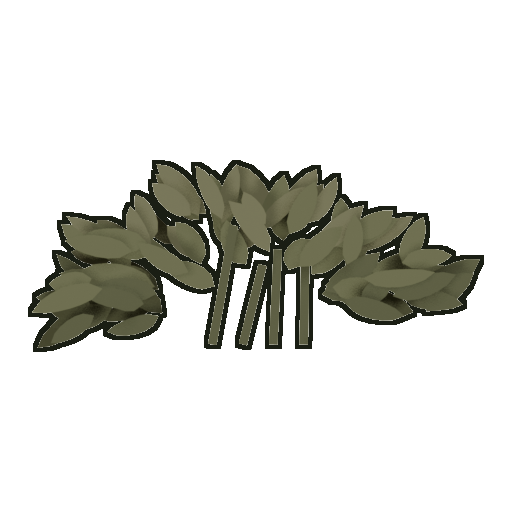
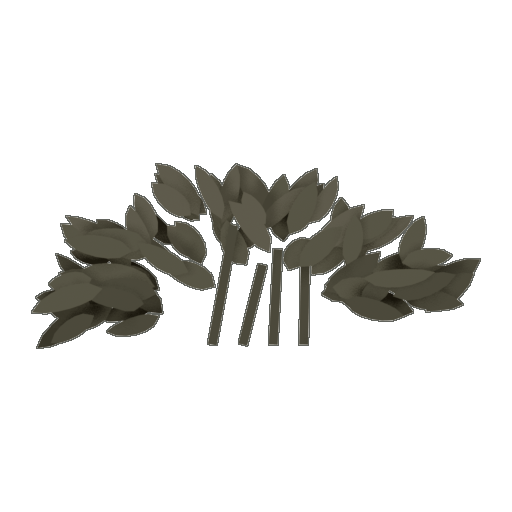
Take the ink off every prop, and plan the visual overhaul
The single biggest thing making this look cheap: every prop was stroked with
FOUR pixels of near-black at full alpha, while the sprite pipeline had already
moved to a 1px soft edge months ago. Two art languages in one frame — lit,
rim-separated soldiers standing in front of scenery with a cartoon keyline.

Measured share of each prop's visible pixels that were nothing but outline:

    bamboo_a  44.8% -> 1.9%      grass_a  45.1% -> 5.8%
    dike_a    38.0% -> 0.0%      deadtree 28.2% -> 1.0%      hut_a  12.1% -> 0.9%

Nearly half of some props WAS the rim. All 28 re-rendered and re-toned with the
same treatment the sprites use.

That immediately exposed a second fault it had been hiding. The foliage tone
fixups were calibrated while the rim covered ~45% of every frond, which dragged
measured saturation down to 0.33 and made the palms look corrected. With the rim
gone they measure 0.66-0.68 against a 0.34 median across the prop set — the most
saturated objects in the game by a factor of two, reading as bright plastic
leaves pasted over a muted field. Re-tuned, along with the other broadleaf
cover; the set now sits at a 0.27 median with the palms no longer outliers.

Also builds a UH-1 and wires it in. It was an ellipse, a stick tail, one stroked
line for the rotor and two for the skids — a flat blob standing in for the most
recognisable object of the war. The airframe is a rendered prop now; only the
[…]

Changed region(s): [[0.0312, 0.3125, 0.9688, 0.6875], [0.7188, 0.625, 0.7812, 0.6562]]

diff --git a/js/render.js b/js/render.js
@@ -536,11 +536,69 @@ function drawHat(ctx, C, hat, hx, hy, prone) {
 }
 
 /* ---------- vehicle silhouettes ---------- */
+/* A UH-1, the most recognisable object of this war.
+ *
+ * This was an ellipse, a four-point tail, one stroked line for the rotor and two
+ * for the skids — a flat dark blob, at a time when every soldier and every tree
+ * in the frame had been rebuilt as lit geometry. The airframe is now a rendered
+ * prop (`huey`, see tools/render_props.py) and only the parts that MOVE are
+ * still drawn here.
+ *
+ * That split is the point: a rotor is a blur, not a shape, so baking it into
+ * the prop would freeze it. The prop is the machine; the code is the motion. */
 function drawHuey(ctx, x, y, t, opts = {}) {
   ctx.save();
   ctx.translate(x, y);
-  // the art is drawn nose-left; dir=+1 (default) means flying right, so mirror
   const dir = opts.dir != null ? opts.dir : 1;
+  const sc = opts.scale != null ? opts.scale : 1;
+  const usable = typeof Props !== 'undefined' && Props.ready && Props.has('huey');
+  if (usable) {
+    // the prop is built nose-RIGHT; dir=+1 means flying right, so no mirror
+    ctx.save();
+    if (dir < 0) ctx.scale(-1, 1);
+    const H = 30 * sc;
+    // noShadow — it is FLYING. Props.draw grounds a contact shadow under
+    // everything by default, which stuck an ellipse of dirt to an airborne
+    // aircraft and followed it across the sky.
+    Props.draw(ctx, 'huey', 0, H * 0.52, 1, { fit: H, noShadow: true });
+    // rotor disc: swept from the MAST, which sits above and slightly aft of the
+    // cabin, not from the centre of the sprite
+    const mx = -H * 0.06, my = -H * 0.62;
+    const spin = Math.cos(t * 42), rl = 46 * sc;
+    ctx.globalAlpha = 0.42;
+    ctx.strokeStyle = 'rgba(24,28,20,0.9)'; ctx.lineWidth = 2.2 * sc;
+    ctx.beginPath();
+    ctx.moveTo(mx - rl * spin, my); ctx.lineTo(mx + rl * spin, my); ctx.stroke();
+    ctx.globalAlpha = 0.16;
+    ctx.strokeStyle = 'rgba(226,232,220,0.9)'; ctx.lineWidth = 1.0 * sc;
+    ctx.beginPath();
+    ctx.moveTo(mx - rl * spin, my - 1.4 * sc); ctx.lineTo(mx + rl * spin, my - 1.4 * sc);
+    ctx.stroke();
+    // tail rotor, faster and edge-on
+    const ts = Math.cos(t * 66);
+    ctx.globalAlpha = 0.34; ctx.lineWidth = 1.3 * sc;
+    ctx.strokeStyle = 'rgba(24,28,20,0.9)';
+    const tx = -H * 1.34, ty = -H * 0.34;
+    ctx.beginPath();
+    ctx.moveTo(tx, ty - 6.5 * sc * ts); ctx.lineTo(tx, ty + 6.5 * sc * ts); ctx.stroke();
+    ctx.globalAlpha = 1;
+    ctx.restore();
+    if (opts.medevac) {
+      // a red cross on the CABIN DOOR — mid-body, not on the nose
+      ctx.save();
+      if (dir < 0) ctx.scale(-1, 1);
+      const cx0 = -H * 0.20, cy0 = -H * 0.34, w = H * 0.26;
+      ctx.fillStyle = '#cfcfc4';
+      ctx.fillRect(cx0, cy0, w, w);
+      ctx.fillStyle = '#a2291d';
+      ctx.fillRect(cx0 + w * 0.36, cy0 + w * 0.10, w * 0.28, w * 0.80);
+      ctx.fillRect(cx0 + w * 0.12, cy0 + w * 0.36, w * 0.76, w * 0.28);
+      ctx.restore();
+    }
+    ctx.restore();
+    return;
+  }
+  // vector fallback, kept so the game still draws before props load
   if (dir > 0) ctx.scale(-1, 1);
   if (opts.flip) ctx.scale(-1, 1);
   const c = opts.color || '#2c3324';
@@ -552,17 +610,10 @@ function drawHuey(ctx, x, y, t, opts = {}) {
   ctx.strokeStyle = c; ctx.lineWidth = 1.6;
   ctx.beginPath(); ctx.moveTo(-10, 9); ctx.lineTo(-12, 13); ctx.moveTo(8, 9); ctx.lineTo(10, 13); ctx.stroke();
   ctx.beginPath(); ctx.moveTo(-14, 13); ctx.lineTo(14, 13); ctx.stroke();
-  ctx.fillStyle = 'rgba(120,140,150,0.5)';
-  ctx.beginPath(); ctx.ellipse(6, -2.5, 5, 3.5, 0, 0, 7); ctx.fill();
   const spin = Math.cos(t * 42);
   ctx.strokeStyle = 'rgba(30,34,26,0.85)'; ctx.lineWidth = 2;
   ctx.beginPath(); ctx.moveTo(-34 * spin, -10); ctx.lineTo(34 * spin, -10); ctx.stroke();
   ctx.fillStyle = c; ctx.fillRect(-2, -11, 4, 5);
-  if (opts.medevac) {
-    ctx.fillStyle = '#b8b8b0'; ctx.fillRect(-6, -5, 10, 9);
-    ctx.fillStyle = '#a83226';
-    ctx.fillRect(-3, -3.5, 4, 6); ctx.fillRect(-5, -1.5, 8, 2);
-  }
   ctx.restore();
 }
 

diff --git a/tools/render_props.py b/tools/render_props.py
@@ -346,6 +346,79 @@ def build_m113():
     _box(dark, L * 0.55, -0.50, 1.70, L * 0.72, 0.50, 1.84)       # driver hatch
 
 
+def build_huey():
+    """A UH-1 Iroquois, side on — the single most recognisable object of this war,
+    and until now the weakest thing in the game.
+
+    It was `drawHuey`: a filled ellipse, a stick tail, one line for the rotor and
+    two for the skids. A flat dark blob, with none of the shapes that make a Huey
+    a Huey, while everything around it had been rebuilt as lit geometry.
+
+    The ROTOR IS NOT HERE. It has to spin, so it stays procedural in render.js;
+    this is the airframe under it. What the silhouette needs, in order of how
+    much each one says: the tall slab cabin with its greenhouse glazing, the
+    long thin tail boom, the swept fin, and the skids standing the body off the
+    ground. Boxes suit it for the same reason they suited the M113 — a fuselage
+    is a closed volume, not a lattice.
+
+    Built nose-right (+X) to match the way the props are drawn and flipped.
+    """
+    olive = _pmat('h_olive', (0.052, 0.062, 0.040))
+    dark = _pmat('h_dark', (0.022, 0.026, 0.018))
+    # The glazing has to be DARK. First pass gave it a value close to the hull
+    # and the greenhouse vanished — the whole airframe read as one olive slab.
+    # Cockpit glass seen from outside is nearly black with a cold sky sheen, and
+    # that dark hole under the rotor is a large part of the silhouette.
+    glass = _pmat('h_glass', (0.012, 0.017, 0.022), rough=0.18)
+    lit = _pmat('h_lit', (0.075, 0.088, 0.058))
+    steel = _pmat('h_steel', (0.034, 0.036, 0.038))
+
+    W = 0.62                                  # half-width, side-on so it is shallow
+    # ---- cabin: the tall slab that carries the whole read
+    _box(olive, -1.30, -W, 1.02, 1.05, W, 2.36)
+    # Nose. First pass stepped it down over 0.62 m and it read as a flat front;
+    # a Huey's nose is long, low and rounded, and that profile is half of what
+    # distinguishes it from a generic helicopter. Twice the length, ten steps.
+    for i in range(10):
+        t0, t1 = i / 10.0, (i + 1) / 10.0
+        _box(olive, 1.05 + 1.24 * t0, -W + 0.10 * t0, 1.02 + 0.34 * t0 ** 1.6,
+             1.05 + 1.24 * t1, W - 0.10 * t0, 2.24 - 0.86 * t1 ** 1.35)
+    _box(dark, 1.72, -W + 0.14, 0.98, 2.16, W - 0.14, 1.26)      # chin bubble
+    # ---- greenhouse. The glazing is most of what says "helicopter" in profile
+    _box(glass, 1.06, -W - 0.03, 1.46, 1.94, W + 0.03, 2.16)     # windscreen, raked
+    _box(glass, 0.28, -W - 0.03, 1.66, 1.00, W + 0.03, 2.22)     # pilot door window
+    _box(dark, 1.00, -W - 0.04, 1.44, 1.08, W + 0.04, 2.24)      # door pillar
+    _box(dark, 1.02, -W - 0.04, 2.14, 1.98, W + 0.04, 2.22)      # cabin roof lip
+    # ---- cabin door, slid open, with the dark interior behind it
+    _box(dark, -1.10, -W - 0.03, 1.16, 0.14, W + 0.03, 2.14)     # opening
+    _box(olive, -1.16, -W - 0.05, 1.12, -1.02, W + 0.05, 2.20)   # door frame aft
+    _box(steel, -1.06, -W - 0.06, 2.16, 0.18, W + 0.06, 2.26)    # door rail
+    # ---- engine deck and mast: the hump that separates cabin from boom
+    _box(olive, -1.34, -W + 0.08, 2.36, 0.44, W - 0.08, 2.72)
+    _box(lit, -1.34, -W + 0.08, 2.66, 0.44, W - 0.08, 2.72)      # lit deck edge
+    _box(dark, -1.40, -W + 0.10, 2.50, -0.90, W - 0.10, 2.86)    # exhaust stack
+    _box(steel, -0.42, -0.16, 2.72, 0.02, 0.16, 3.14)            # rotor mast
+    _box(steel, -0.56, -0.26, 3.14, 0.16, 0.26, 3.30)            # hub
+    # ---- tail boom, tapering back
+    for i in range(6):
+        t0, t1 = i / 6.0, (i + 1) / 6.0
+        z = 1.94 - 0.10 * t0
+        _box(olive, -1.30 - 2.55 * t1, -W * (0.42 - 0.20 * t0), z - 0.30 + 0.10 * t0,
+             -1.30 - 2.55 * t0, W * (0.42 - 0.20 * t0), z + 0.16 - 0.06 * t0)
+    # ---- fin, swept forward at the base like the real one, plus the stabiliser
+    _box(olive, -4.42, -0.11, 1.70, -3.78, 0.11, 2.60)           # fin
+    _box(olive, -4.30, -0.11, 2.60, -3.88, 0.11, 3.02)           # fin cap
+    _box(olive, -3.70, -0.46, 1.80, -3.02, 0.46, 1.96)           # stabiliser
+    _box(steel, -4.46, -0.22, 2.06, -4.30, 0.22, 2.26)           # tail rotor hub
+    _box(dark, -4.52, -0.06, 1.52, -4.26, 0.06, 1.78)            # tail skid
+    # ---- skids: two struts a side and the tube they carry
+    for sy in (-W + 0.10, W - 0.22):
+        _box(steel, 0.30, sy, 0.16, 0.44, sy + 0.12, 1.06)       # forward strut
+        _box(steel, -0.86, sy, 0.16, -0.72, sy + 0.12, 1.06)     # aft strut
+        _box(steel, -1.15, sy - 0.05, 0.00, 1.05, sy + 0.17, 0.18)
+        _box(steel, 1.05, sy - 0.05, 0.04, 1.34, sy + 0.17, 0.26)  # toe, curved up
+
+
 # ---------------------------------------------------------------- foliage
 # The maps had four palm silhouettes and nothing else, tiled across every lane,
 # which reads as wallpaper the moment you look at the treeline. These are built
@@ -865,6 +938,7 @@ def build_cartviet():
 
 BUILT = {
     'm113':       (build_m113, 2.6),
+    'huey':       (build_huey, 4.4),   # UH-1 rotor diameter aside, 4.4 m to the hub
     'watchtower': (build_watchtower, 5.2),
     # foliage — real heights, so they scale against a 1.8 m soldier
     'bamboo_a':   (build_bamboo, 4.8),

diff --git a/tools/tone_props.py b/tools/tone_props.py
@@ -26,7 +26,21 @@ from PIL import Image
 from scipy import ndimage
 
 LEDGER = '.toned.json'
-OUTLINE = (26, 30, 20)
+# THE PROPS WERE STILL INKED. The sprite pipeline moved off a hard keyline a
+# while back — see the long note at the top of tools/outline_sprites.py, which
+# measured a 3px black rim turning 6.7% dark pixels into 36.4% — but this file
+# was left stroking every prop with FOUR pixels of near-black at full alpha.
+#
+# So the soldiers were being lit and separated by their rim light while the
+# scenery around them carried a cartoon outline: two art languages in one frame,
+# and the reason the new Huey read as a sticker rather than an aircraft.
+#
+# Same treatment as the sprites now: one pixel, lifted off black and warmed so
+# it reads as contact shadow, at partial alpha so it blends instead of punching
+# a silhouette. Props render at 512 and draw far smaller, so one pixel here is
+# a fraction of a pixel on screen — which is the point.
+OUTLINE = (38, 40, 32)
+OUTLINE_ALPHA = 0.72
 
 # Per-prop correction, applied after the global grade. The donor sandbags are a
 # pale grey that reads as a heap of pebbles rather than filled hessian; they need
@@ -55,10 +69,21 @@ FIXUP = {
     # hue 60 and 42/43/32 — yellow and too dark. `sat_keep` runs BEFORE the
     # multiply, so pulling saturation to 0.30 collapsed the red channel first
     # and then everything got darkened on top of it.
-    'palm_a':        (0.92, (0.020, 0.004, -0.004), 0.46),
-    'palm_b':        (0.60, (0.034, 0.020, 0.004), 0.30),
-    'palm_c':        (0.60, (0.034, 0.020, 0.004), 0.30),
-    'palm_d':        (0.60, (0.034, 0.020, 0.004), 0.30),
+    # RE-TUNED after the outline came off. These numbers were set while a 4px
+    # black rim covered ~45% of every frond, which dragged the measured
+    # saturation of palm_b/c/d down to 0.33 and made them look corrected. With
+    # the rim gone they measure 0.66-0.68 against a 0.34 median across the prop
+    # set — the most saturated things in the game by a factor of two — and in
+    # frame they read as bright plastic leaves pasted over a muted field.
+    'palm_a':        (0.88, (0.018, 0.004, -0.004), 0.42),
+    'palm_b':        (0.50, (0.026, 0.016, 0.006), 0.22),
+    'palm_c':        (0.50, (0.026, 0.016, 0.006), 0.22),
+    'palm_d':        (0.50, (0.026, 0.016, 0.006), 0.22),
+    # the broadleaf ground cover came up the same way once the rim went
+    'bush_low':      (0.74, (0.020, 0.014, 0.004), 0.30),
+    'vine_a':        (0.74, (0.020, 0.014, 0.004), 0.30),
+    'banana_a':      (0.72, (0.022, 0.014, 0.004), 0.30),
+    'fern_a':        (0.78, (0.018, 0.012, 0.004), 0.32),
     # At Lmean 83 this was the palest thing on the ground and scattered bright
     # straw across the field at random — noise where the frame needs structure.
     'grass_a':       (0.78, (0.014, 0.010, 0.002)),
@@ -110,15 +135,19 @@ def tone(a, fix=None):
     return a
 
 
-def process(path, width=4):
+def process(path, width=1):
     im = Image.open(path).convert('RGBA')
-    a = np.array(im)
-    a = tone(a, FIXUP.get(os.path.splitext(os.path.basename(path))[0]))
+    a = np.array(im).astype(np.float32)
+    a = tone(a.astype(np.uint8), FIXUP.get(os.path.splitext(os.path.basename(path))[0]))
+    a = a.astype(np.float32)
     solid = a[:, :, 3] > 110
     grown = ndimage.binary_dilation(solid, np.ones((3, 3)), iterations=width)
     rim = grown & ~solid
-    a[rim] = (*OUTLINE, 255)
-    Image.fromarray(a).save(path)
+    if rim.any():
+        for c in range(3):
+            a[:, :, c][rim] = OUTLINE[c]
+        a[:, :, 3][rim] = 255.0 * OUTLINE_ALPHA
+    Image.fromarray(np.clip(a, 0, 255).astype(np.uint8)).save(path)
 
 
 def digest(p):

diff --git a/PLAN.md b/PLAN.md
@@ -472,6 +472,79 @@ There were simply not enough frames in it.
   remaining variety win.
 
 
+## 1.9 THE VISUAL OVERHAUL — the only priority
+
+Owner, and the words matter: *"make the game look good. It's shit right now"*,
+*"everything needs an upscale"*, *"maybe even adding and removing old assets"*.
+
+Measured first, because three of the four things that look wrong are not what
+they appear to be.
+
+### What the frame actually measures
+
+| | cuchi | iadrang | mekong |
+|---|---|---|---|
+| whole-frame luminance range | 200 | 195 | 176 |
+| GROUND-BAND range | **74** | **70** | **92** |
+| mean saturation | 0.22 | 0.39 | 0.48 |
+
+**Soldier-to-ground contrast: 12 points out of 255.** US bodies average 99.3
+against ground at 102.5; VC 72.9 against 62.3. In a game about infantry you
+cannot see the infantry — they are the same value as the dirt they stand on.
+
+The whole-frame range looks healthy at ~200 and is a lie: it is the SKY doing
+all of it. The sky reaches 230 while the playfield lives in a 70-point band. The
+picture has a bright empty top half and a flat middle where the game is.
+
+### The order, by measured impact
+
+**1. FIGURE SEPARATION.** 12 points is the headline number. Three levers, all
+cheap: darken the uniform tints so men sit below the ground plane in value,
+strengthen the contact shadow so each man is anchored, and add a light rim on
+the sun side. Target 35+ points body-to-ground.
+
+**2. GROUND-BAND RANGE.** 70-92 points where the sky gets 200. The terrain
+passes exist and are being flattened by the haze wash that sits over them.
+Target 110+ without touching the sky.
+
+**3. RESOLUTION, honestly.** The atlas is `figH` 85.3 px drawn to `S3_TARGET_H`
+84 — a 1:1 source. The canvas backing store is 1534 px wide against a logical
+1280, so every soldier is upscaled ~1.18x on this display and more on a larger
+one. Props render at 512 and are drawn near 100, so they are fine; the SPRITES
+are the bottleneck. Raising the figure to 120 px costs 2x atlas memory
+(89 -> 178 MB) against a 130 cap, so it has to be paid for by cutting frames:
+`walk` 28 -> 16 and `runfire` 20 -> 12 buys the room. Do this AFTER 1 and 2,
+because contrast is worth more than pixels and costs nothing.
+
+**4. REMOVE THE WEAK OLD ASSETS.** Now that the prop outline is off, what is
+left of the inked kit is obvious. `_tree` vector lollipops still draw the
+mid-ground canopy; `drawJet` and `drawB52` are flat polygons; the round bush
+blobs in the tree band are three ellipses. These are the last things in the
+frame that are not lit geometry.
+
+**5. ADD.** A Huey exists now. The gaps that would carry the most: a proper
+canopy/treeline prop to replace the vector blobs, and ground detail so the
+playfield is not a bare plane.
+
+### Already done this pass
+
+**The prop outline was the single biggest fault and it is fixed.** Every prop
+was stroked with FOUR pixels of near-black at full alpha, while the sprite
+pipeline had already moved to a 1px soft edge — two art languages in one frame.
+Measured share of visible pixels that were dark outline:
+
+    bamboo_a  44.8% -> 1.9%      grass_a  45.1% -> 5.8%
+    dike_a    38.0% -> 0.0%      deadtree 28.2% -> 1.0%
+
+Nearly half of some props WAS the outline. **Rule: when an asset looks like a
+sticker, measure how much of it is the rim before touching the art.**
+
+And the foliage tone was re-tuned as a consequence: those fixups were calibrated
+while the rim covered ~45% of every frond, which held measured saturation down
+to 0.33 and made the palms look corrected. With the rim gone they measured
+0.66-0.68 against a 0.34 median — the most saturated things in the game by 2x,
+reading as bright plastic. Now inside the set at a 0.27 median.
+
 ## 2. Open, ranked
 
 **The asset audit, and the rule it produced.** Laying all 31 props side by side
